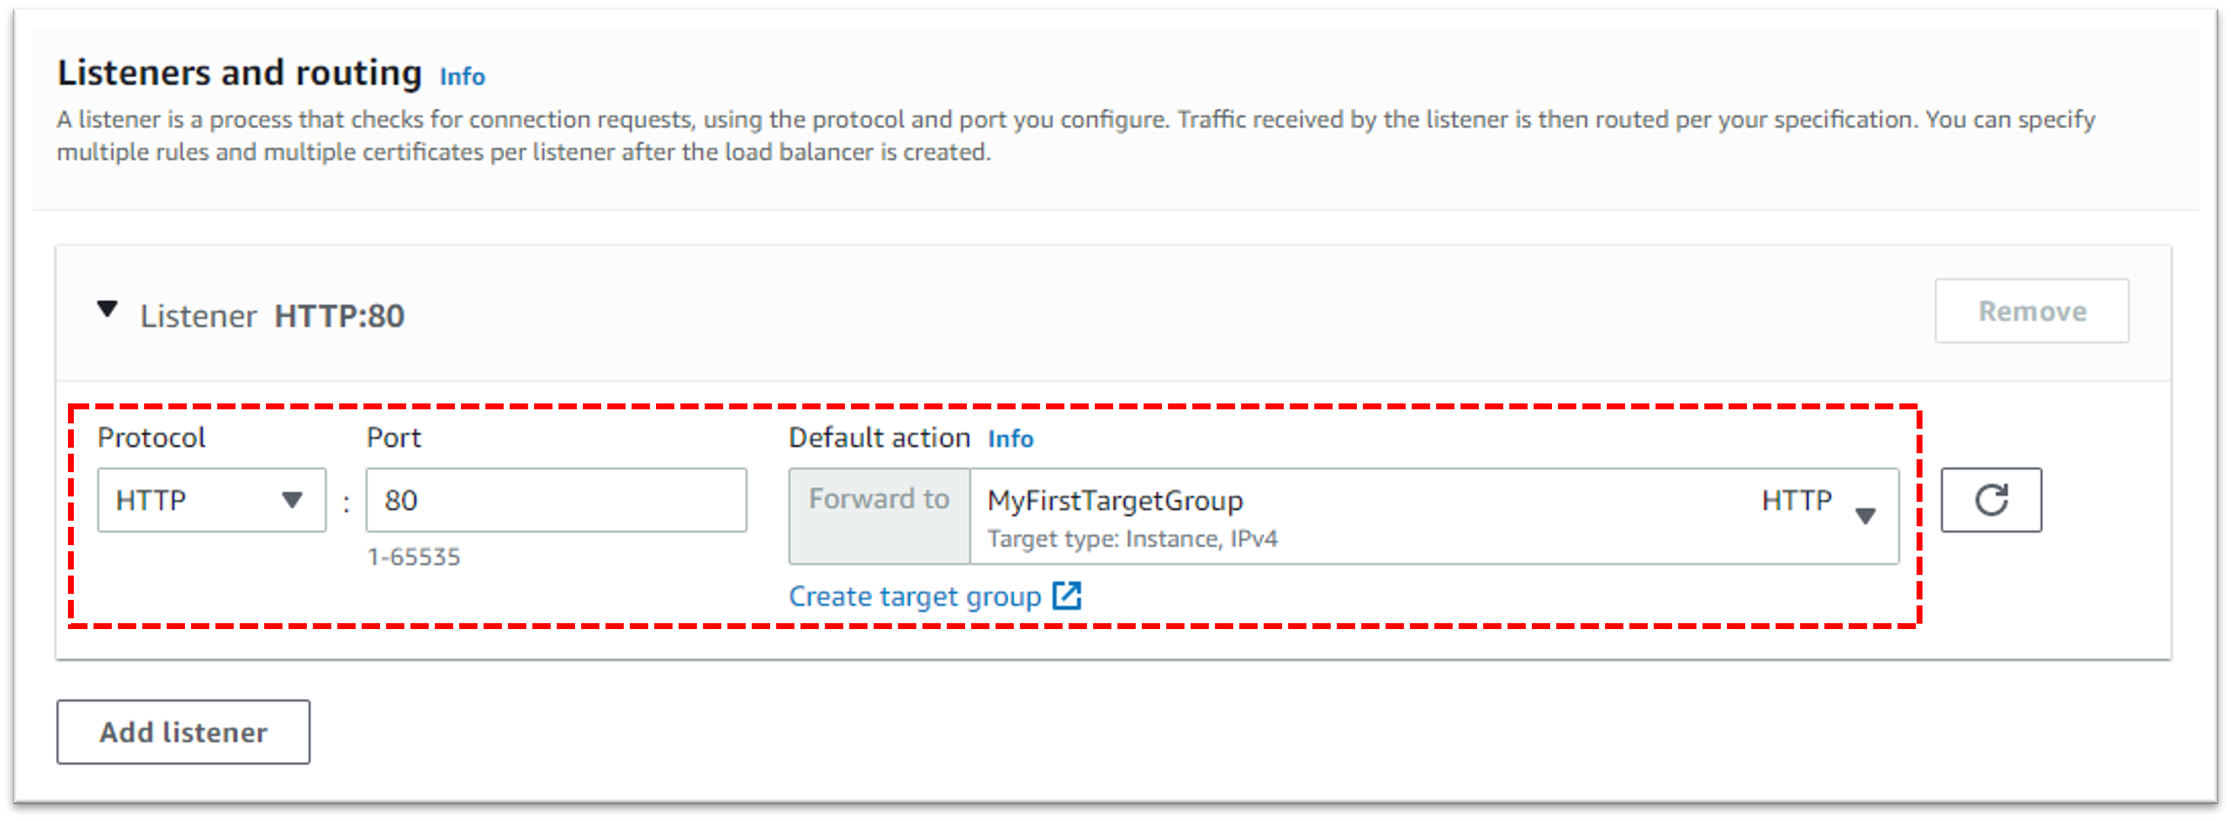
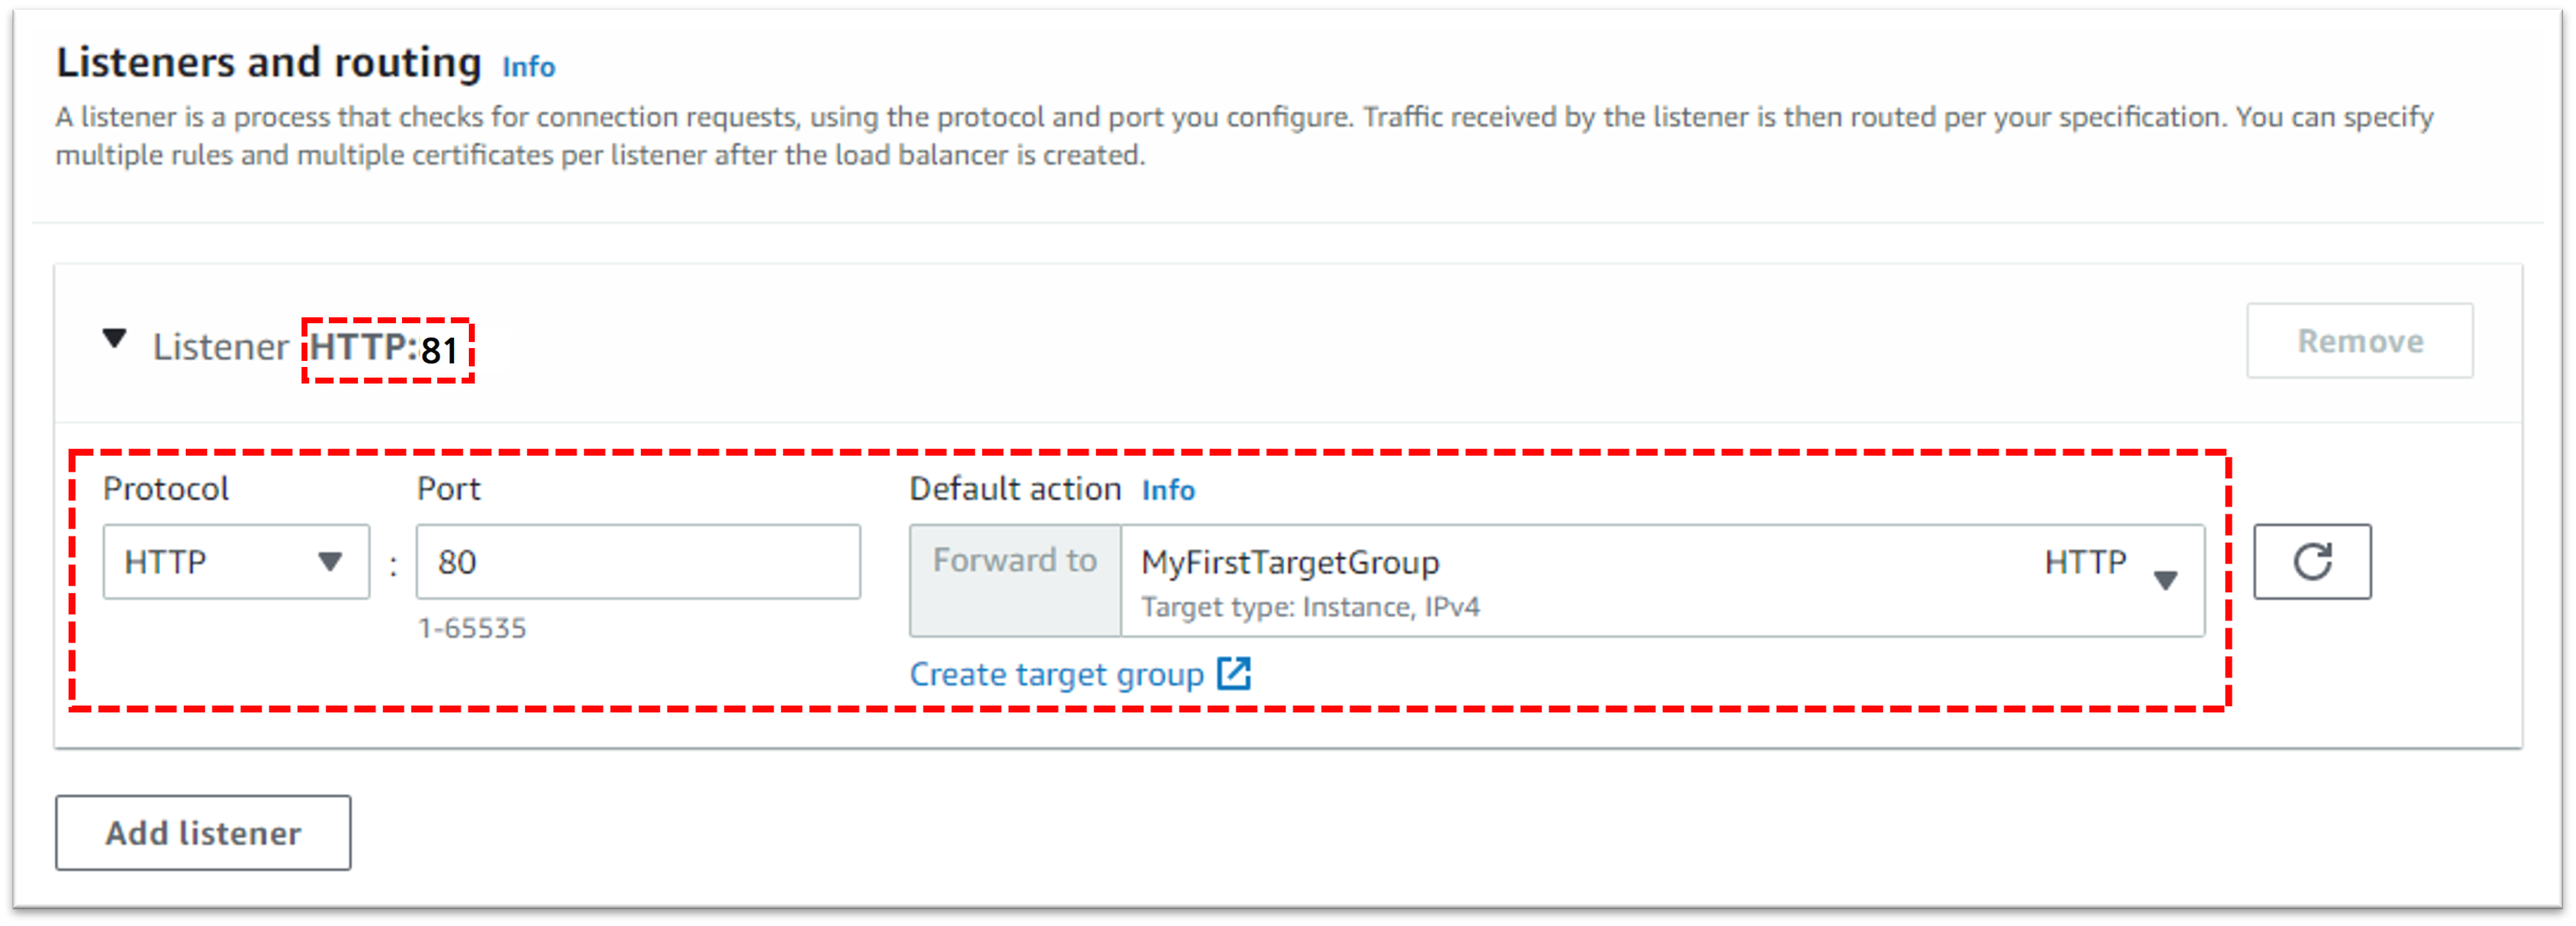
Update Full Architecture Diagram

diff --git a/README.md b/README.md
@@ -18,7 +18,7 @@ AWS로 가상 네트워크 구축하기
 
 나이브하게 대응시키면  
 
-- PC = EC2
+- PC = EC2internetㅁ
 - Switch = 가상 스위치(AWS에서는 subnet이 대신함)
 - Router = Route table
 - Serial Port = Internet Gateway
@@ -244,7 +244,7 @@ SSH에서 EC2에 접근했다면 우분투 기본설정을 해주도록 하자 (
 
 ![image](image35.png)  
 
-요렇게 만들어줄거다. 로드밸런서는 클라이언트에게 81번 포트로 먼저 요청을 받아 적절하게 분산, 인스턴스로 이루어진 타겟 그룹에 80번 포트로 요청을 뿌려준다.  
+요렇게 만들어줄거다. 로드밸런서는 클라이언트에게 81번 포트로 먼저 요청을 받아 적절하게 분산, 인스턴스로 이루어진 타겟 그룹에 80번 포트로 요청을 뿌려준다. (자세한 내용은 [생활코딩](https://youtu.be/s9FHdj6jd_U) 참고)  
 
 먼저 타겟그룹부터 만든다. 
 
@@ -272,7 +272,11 @@ SSH에서 EC2에 접근했다면 우분투 기본설정을 해주도록 하자 (
 
 (2. 서버에 접속이 안된다면 내부 private ip를 ALLOWED HOST에 추가해주도록하자.)  
 
+![image](image41.png)  
 
+현재까지 구성도를 정리한 그림이다.   
+
+## 7. Auto Scale 써보기
 
 
 
